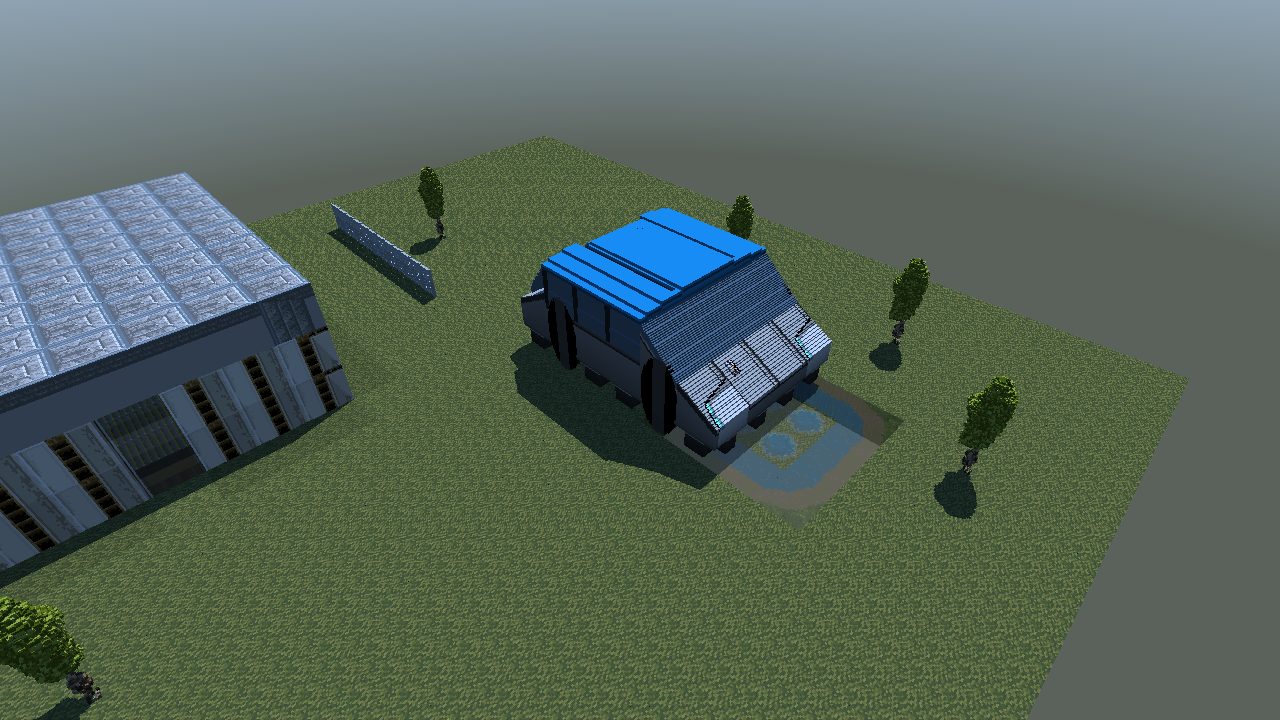
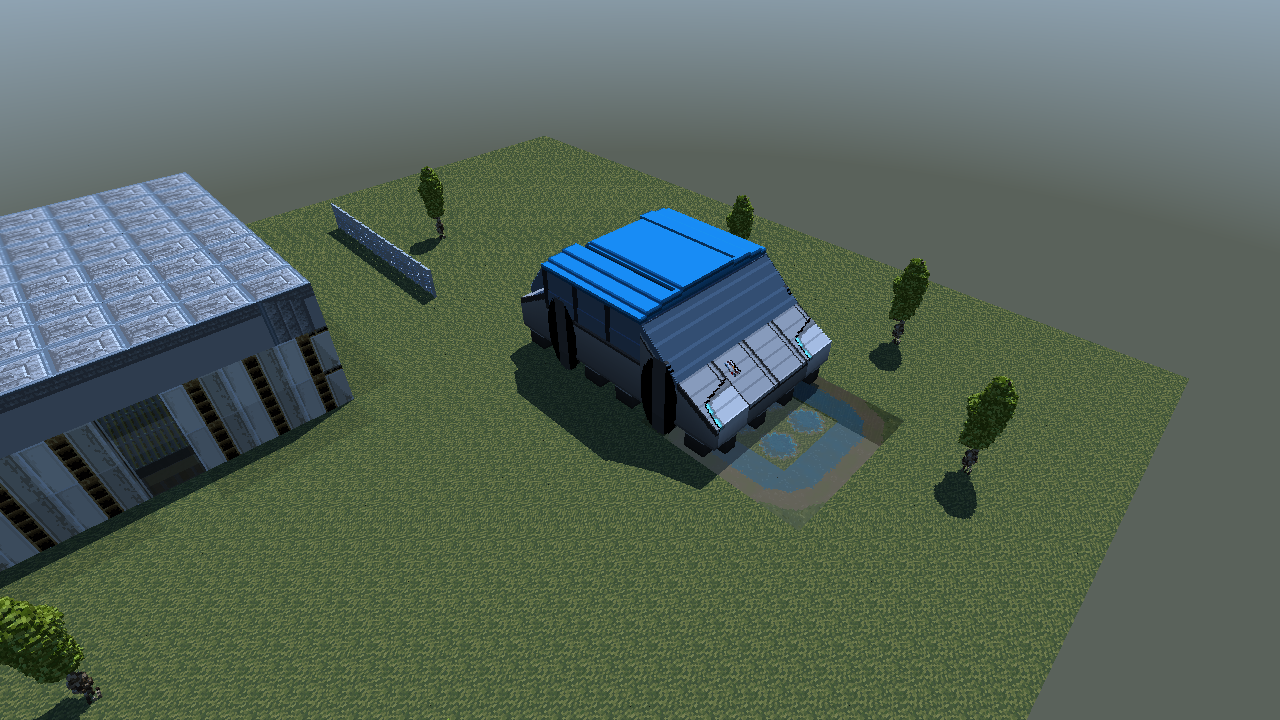
Fine slope normals S3: RT spike succeeds — gradient normals at fine hits
The RT render shader shades fine hits with an axis entry
normal, so every sloped fine surface banded exactly as the
raster did before S1. shade() now takes its lighting
normal from fine_light_normal(h): on an upward fine
surface (a +z top face, or the side face of a column-top
cell — a riser), the normal is tilted by the heightfield
gradient probed from the fine tree via fine_descend
(bounded column walks, the mesher's 8-cell threshold
rule). Texture face selection and cone LOD keep the axis
normal; only the lighting terms tilt.

Vehicle RT capture: windshield and hood change from dense
per-step striping to continuous planes (2.11% of pixels,
all on the car's slopes). treebuild 26/26; engine RT
gates 18/18 unchanged. Decision and evidence recorded in
docs/fine-slope-normals.md §12.

Changed region(s): [[0.4375, 0.3361, 0.6562, 0.5806], [0.0, 0.825, 0.0312, 0.8861]]

diff --git a/crates/treebuild/src/render.rs b/crates/treebuild/src/render.rs
@@ -719,6 +719,75 @@ fn lit_factor(lit: u32) -> f32 {
     }
 }
 
+// RT slope spike (docs/fine-slope-normals.md S5): occupancy
+// of one fine cell via the tree point query.
+fn fine_occupied(cell: vec3<i32>) -> bool {
+    let p = vec3<f32>(cell) + vec3<f32>(0.5, 0.5, 0.5);
+    if any(p < vec3<f32>(0.0, 0.0, 0.0)) || any(p >= vec3<f32>(fu.fine_size, fu.fine_size, fu.fine_size)) {
+        return false;
+    }
+    return fine_descend(p).occupied;
+}
+
+// Surface top (highest solid z + 1) of fine column (cx, cy),
+// searched from z0 with the mesher's walk rule and the same
+// 8-cell bound as SLOPE_EDGE_THRESHOLD; -1 when the top is
+// not within the bound (cliff or void).
+fn fine_column_top(cx: i32, cy: i32, z0: i32) -> i32 {
+    if fine_occupied(vec3<i32>(cx, cy, z0)) {
+        var z = z0;
+        while fine_occupied(vec3<i32>(cx, cy, z + 1)) {
+            z = z + 1;
+            if z - z0 > 8 {
+                return -1;
+            }
+        }
+        return z + 1;
+    }
+    var z = z0;
+    while !fine_occupied(vec3<i32>(cx, cy, z - 1)) {
+        z = z - 1;
+        if z0 - z > 8 {
+            return -1;
+        }
+    }
+    return z;
+}
+
+// Lighting normal for a fine hit: on an upward surface
+// (a +z top face, or the side face of a column-top cell —
+// a slope riser), tilt the axis normal by the heightfield
+// gradient probed one cell out in +-x/+-y, with the
+// mesher's threshold rule (any neighbour top more than 8
+// from the hit top, or unmeasurable, keeps the axis
+// normal). Walls, bottoms and non-fine hits are untouched;
+// texture face selection and LOD keep the axis normal —
+// only the lighting terms take the tilt.
+fn fine_light_normal(h: Hit) -> vec3<f32> {
+    let n = h.normal;
+    if !h.fine || n.z < -0.5 {
+        return n;
+    }
+    let cell = vec3<i32>(h.fvoxel_min);
+    if fine_occupied(cell + vec3<i32>(0, 0, 1)) {
+        return n;
+    }
+    let h0 = cell.z + 1;
+    let tx = fine_column_top(cell.x + 1, cell.y, cell.z);
+    let txm = fine_column_top(cell.x - 1, cell.y, cell.z);
+    let ty = fine_column_top(cell.x, cell.y + 1, cell.z);
+    let tym = fine_column_top(cell.x, cell.y - 1, cell.z);
+    if tx < 0 || txm < 0 || ty < 0 || tym < 0 {
+        return n;
+    }
+    if abs(tx - h0) > 8 || abs(txm - h0) > 8 || abs(ty - h0) > 8 || abs(tym - h0) > 8 {
+        return n;
+    }
+    let dhdx = f32(tx - txm) / 2.0;
+    let dhdy = f32(ty - tym) / 2.0;
+    return normalize(vec3<f32>(-dhdx, -dhdy, 1.0));
+}
+
 fn shade(ro: vec3<f32>, rd: vec3<f32>, h: Hit) -> vec3<f32> {
     // Phase 9 two-tree: a fine hit shades from the FINE tree's
     // node/side entries (same node index space, other arrays).
@@ -760,7 +829,7 @@ fn shade(ro: vec3<f32>, rd: vec3<f32>, h: Hit) -> vec3<f32> {
         // Emissive: unlit, feeds the Phase 2b bloom pass downstream.
         return albedo * 1.6;
     }
-    let n = h.normal;
+    let n = fine_light_normal(h);
     // Phase 10 (10.4, §5.3): sky GI from the shared SkyUniforms,
     // replacing the hardcoded `0.35 + 0.85 * ndl` model.
     //

diff --git a/docs/fine-slope-normals.md b/docs/fine-slope-normals.md
@@ -253,3 +253,48 @@ channels. Golden / phase9 / puddle / raster_tex / frame /
 vehicle_texture / phase9_rt / fine_occlusion_rt gates all
 pass unchanged — still no golden fixture with a shallow
 stamped slope. Not pushed.
+
+## 12. S3 outcome — RT spike: SUCCESS, probe ships as the implementation (2026-11-24)
+
+The §5 spike succeeded and stays as the implementation; no
+fallback to "document the banding" is needed. In the RT
+render shader (`crates/treebuild/src/render.rs`), `shade()`
+now takes its lighting normal from `fine_light_normal(h)`:
+for a fine hit on an upward surface — a +z top face, or the
+side face of a column-top cell (a slope riser) — the axis
+normal is tilted by the heightfield gradient probed from
+the fine tree itself: neighbour column tops (±x/±y, one
+cell out) are found by bounded vertical walks through the
+existing `fine_descend` point query, with the mesher's
+rules — walk bound 8, any neighbour top more than 8 from
+the hit top (or unmeasurable) keeps the axis normal, as do
+walls, bottoms and coarse hits. Texture face selection and
+cone LOD keep the axis normal; only the lighting terms
+(hemisphere, sun/moon, shadow offset) take the tilt.
+
+Evidence: the vehicle RT capture's windshield and hood go
+from dense per-step striping to single continuous planes;
+2.11% of pixels change, all on the car's sloped surfaces.
+RT distinct colours 3,742 -> 3,997. The estimator is the
+1-cell difference (S1 quality), not the §11 plane fit: at
+RT's per-cell normals it shows no visible oscillation on
+this scene (windshield gradient 0.84 is near-exact for it;
+the hood's shallow slope is masked by RT grain). If a
+future scene exposes it, the upgrade path is a wider
+probe stencil in the same function — no layout changes.
+Cost: bounded ~4 column walks per fine surface hit; no
+slowdown measurable on this VM (full three-capture run
+34.7 s vs a 54.9 s compile-free baseline — run-to-run
+variance here exceeds any plausible probe cost; the real
+frame-time verdict still waits on target hardware, as
+with RT generally). Regression: treebuild 26/26; engine
+rt_gate, phase9_rt_gate, fine_occlusion_rt_gate,
+sky_rt_gate, sky_live_gate all pass (18 tests — none
+pixel-compares a fine slope scene, the same golden gap
+as the raster side). Raster output is untouched (the
+raster and top captures are byte-identical; only the RT
+capture changed). One implementation note: `wgsl_sources()`
+omits EMITTER_WGSL from its render string while the
+pipeline includes it — a pre-existing gap in that test
+accessor, unrelated to this change; the pipeline assembly
+is what the GPU gates exercise. Not pushed.
